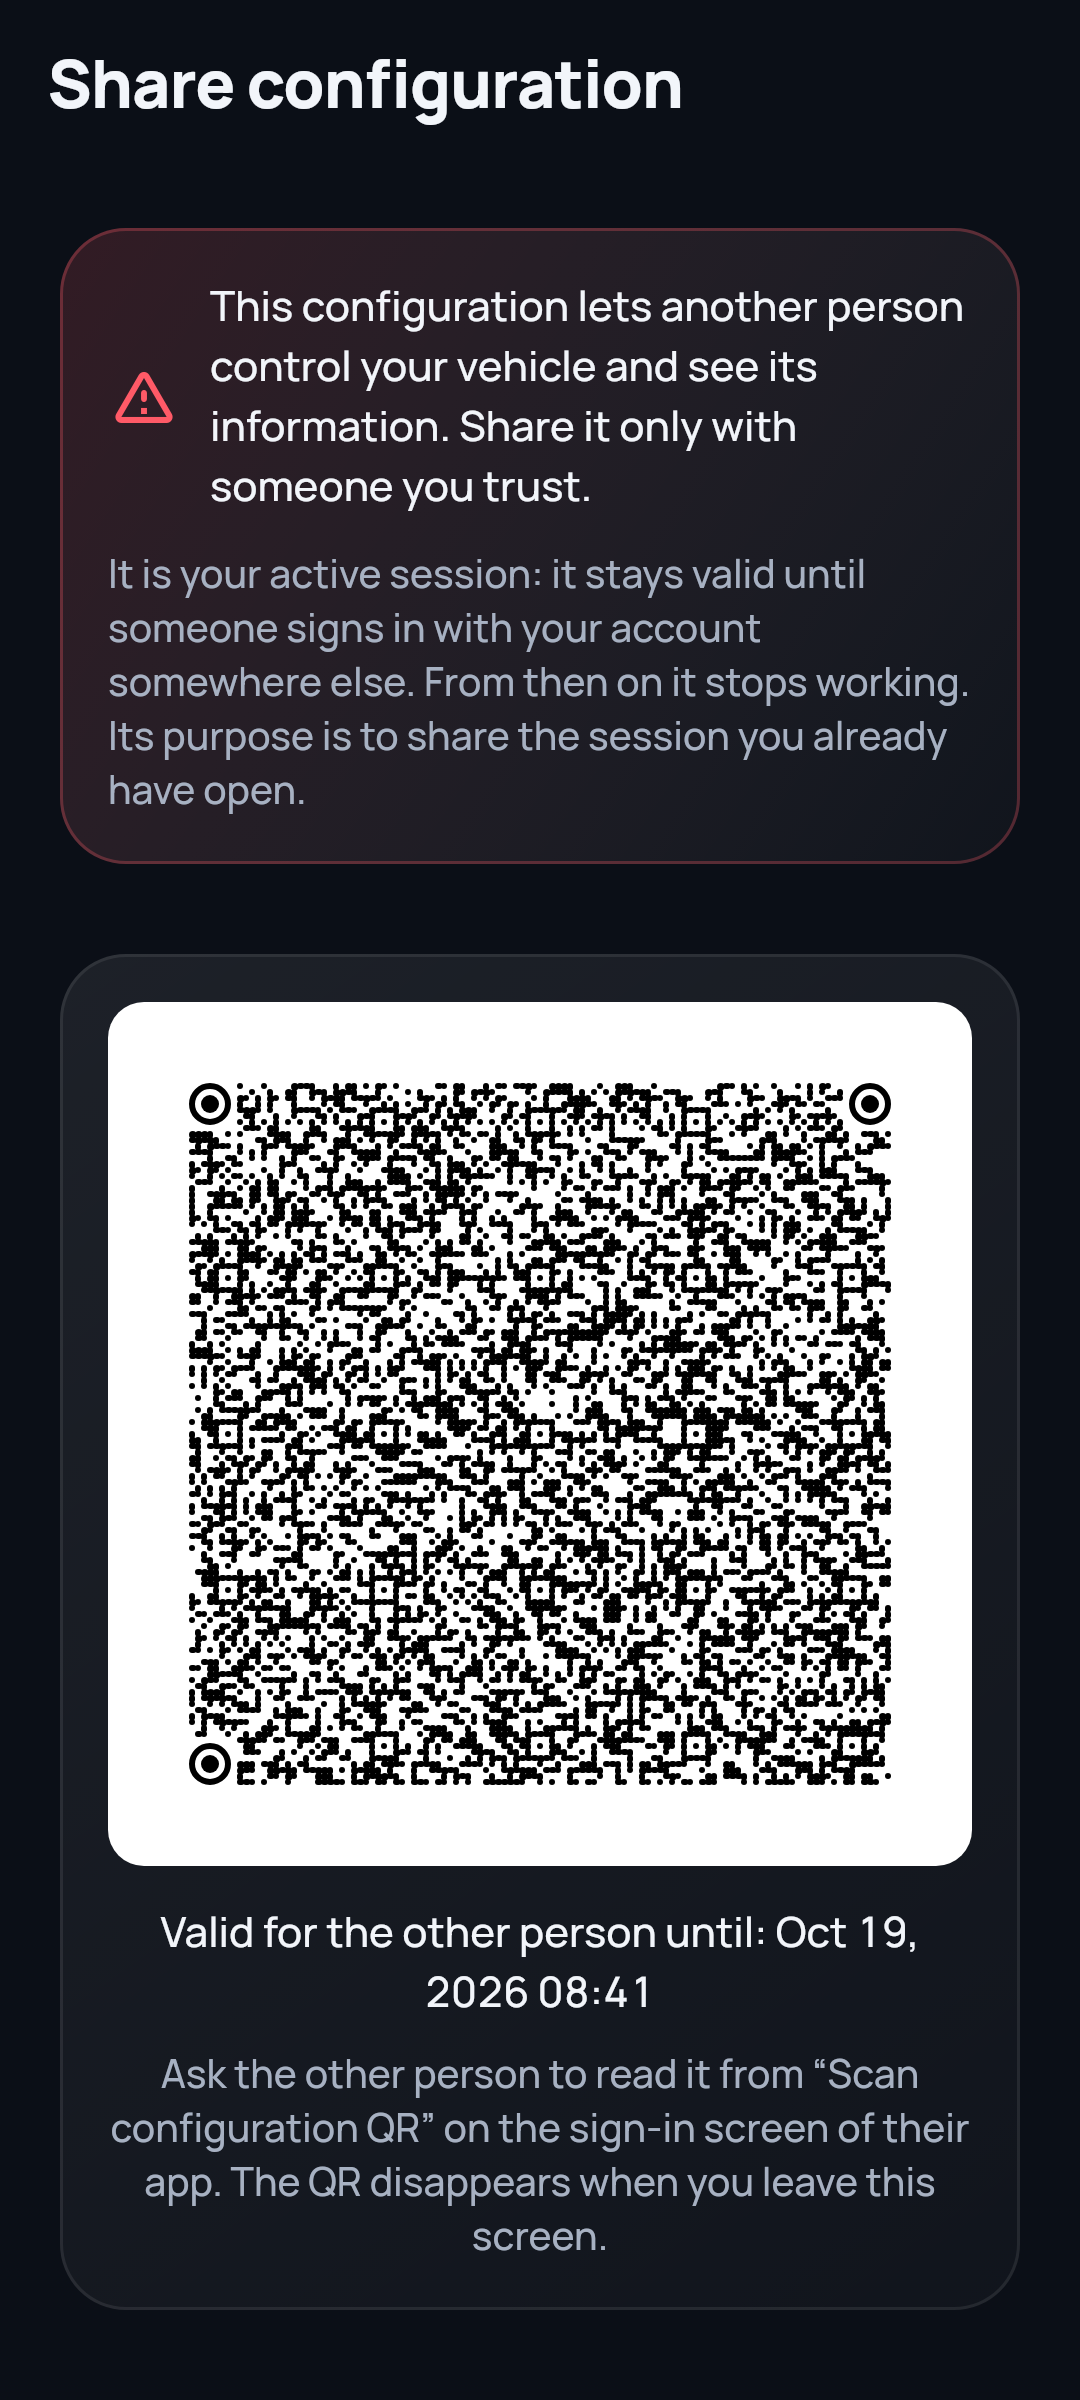
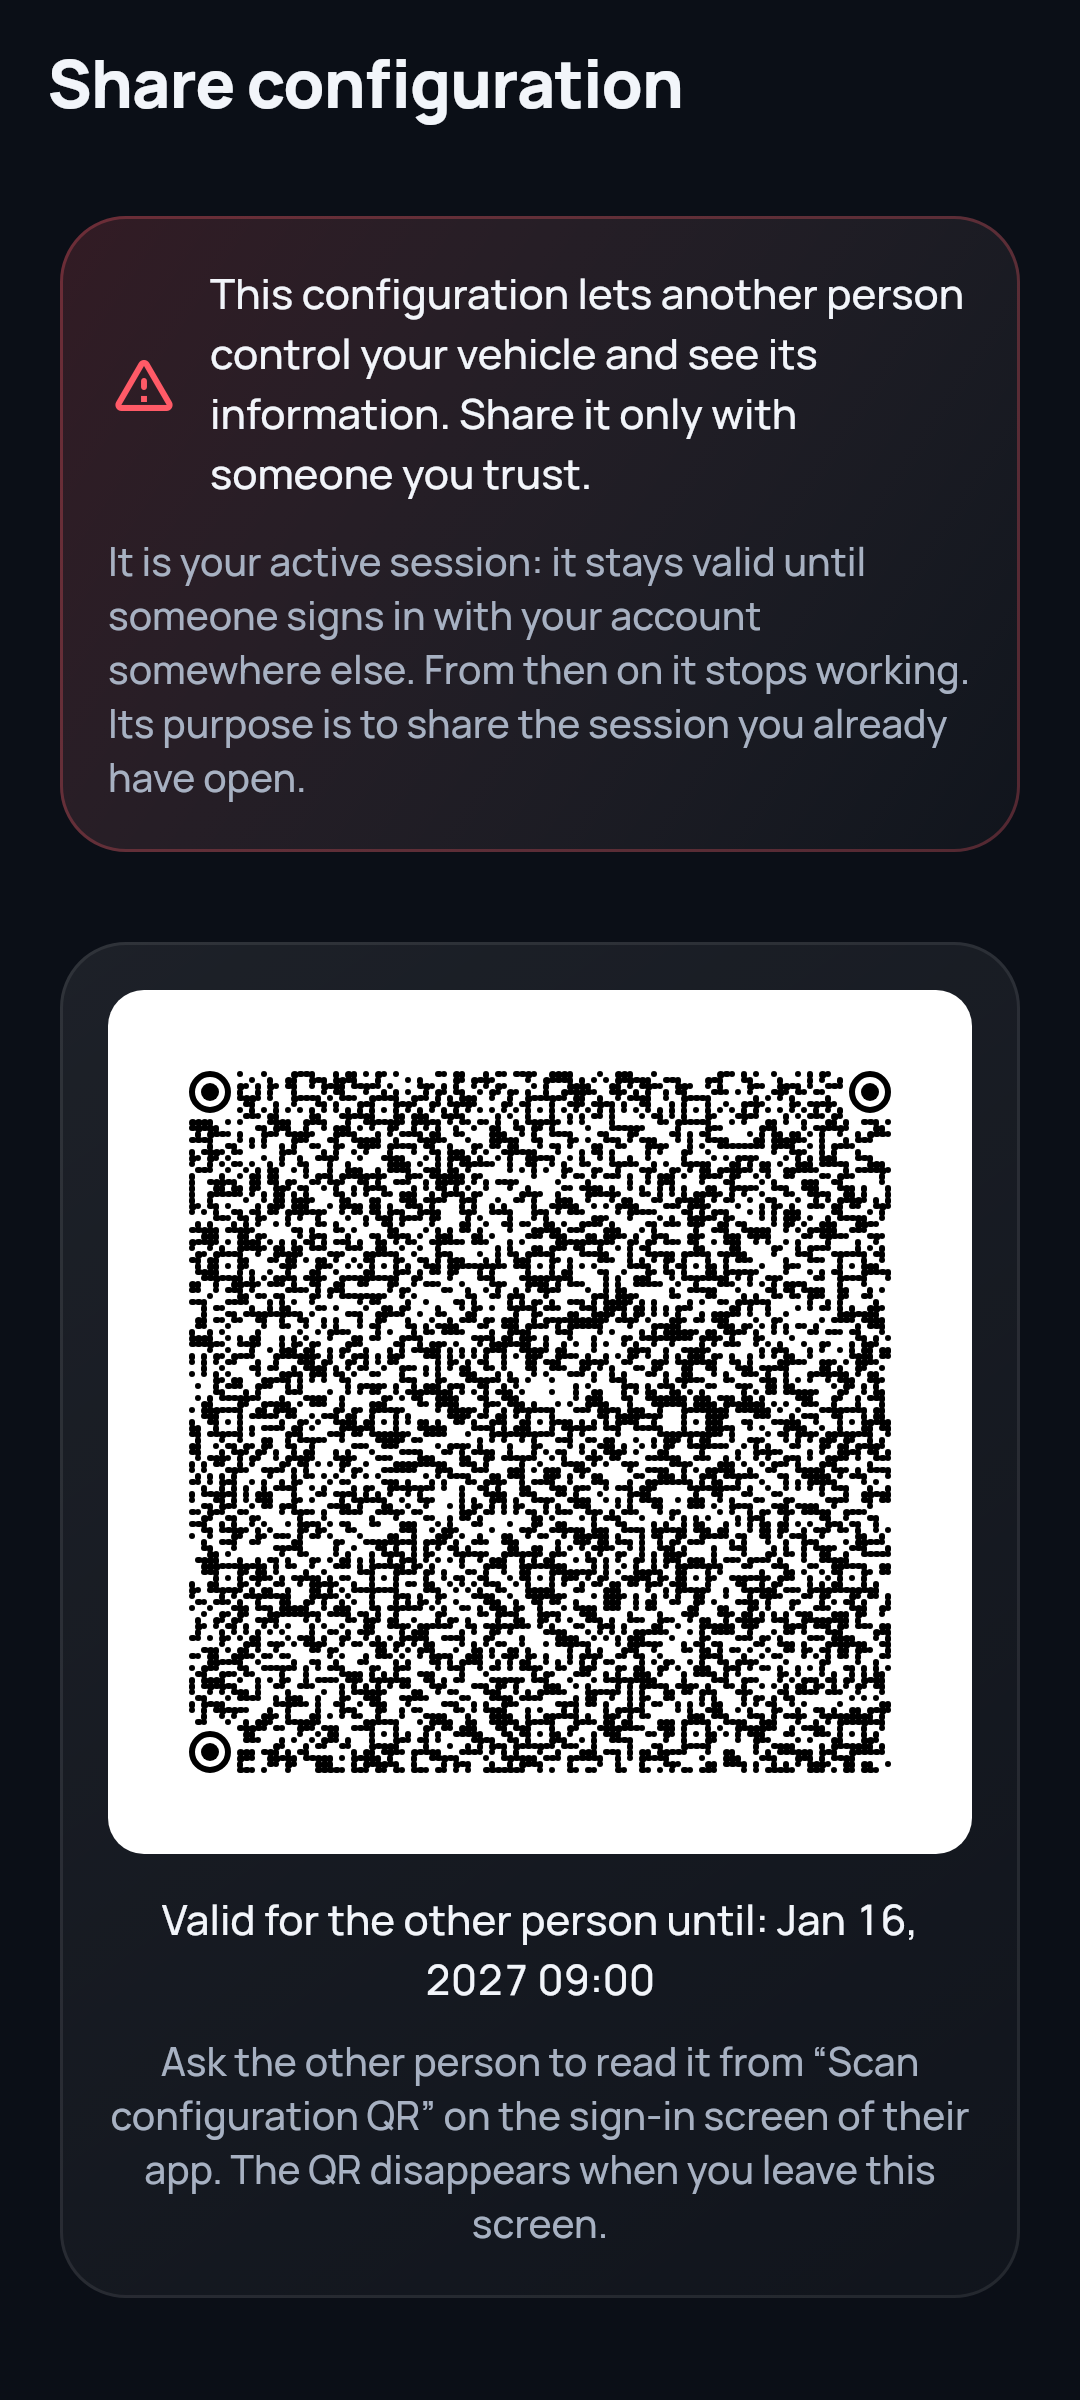
README and screenshot: share with maximum validity

diff --git a/README.md b/README.md
@@ -64,7 +64,7 @@ SHA-256: c2:f2:4b:7d:02:d8:c5:04:0c:77:2b:a7:b4:5c:0f:33:33:86:60:2d:e4:a7:b2:18
 - The command contract is community-documented and **not officially verified**. The meaning of *lock/unlock* has not been confirmed on a real car yet: the first time, try it with the car in front of you and check the result before relying on it.
 
 **Share your session with a QR (More → Share configuration)**
-- Shows your active session as an encrypted QR (protected by a password you choose) so another phone can use your car **without signing in**. It tells you what it implies and lets you pick how long it is valid (1 hour, 24 hours or 7 days).
+- Shows your active session as an encrypted QR (protected by a password you choose) so another phone can use your car **without signing in**. It tells you what it implies and lets you pick how long it is valid: 1 hour, 24 hours, 7 days, or the **maximum** your own session allows (the app shows how much time it has left, about 90 days). The other phone never renews the session, so the server may end it earlier; if it does, ask for a new QR.
 - Anyone with the QR **and** the password can see and control your car. Share it only with people you trust, and give them the password through another channel.
 - On the other phone, open **Scan configuration QR** on the sign-in screen (it is for SmartDPAL's own QR, not the car's). That phone never renews the session: it shows who shared it and until when, and asks for a new QR when it ends. A shared session cannot be shared again.
 - The shared session also ends as soon as anyone signs in with your account somewhere else.
